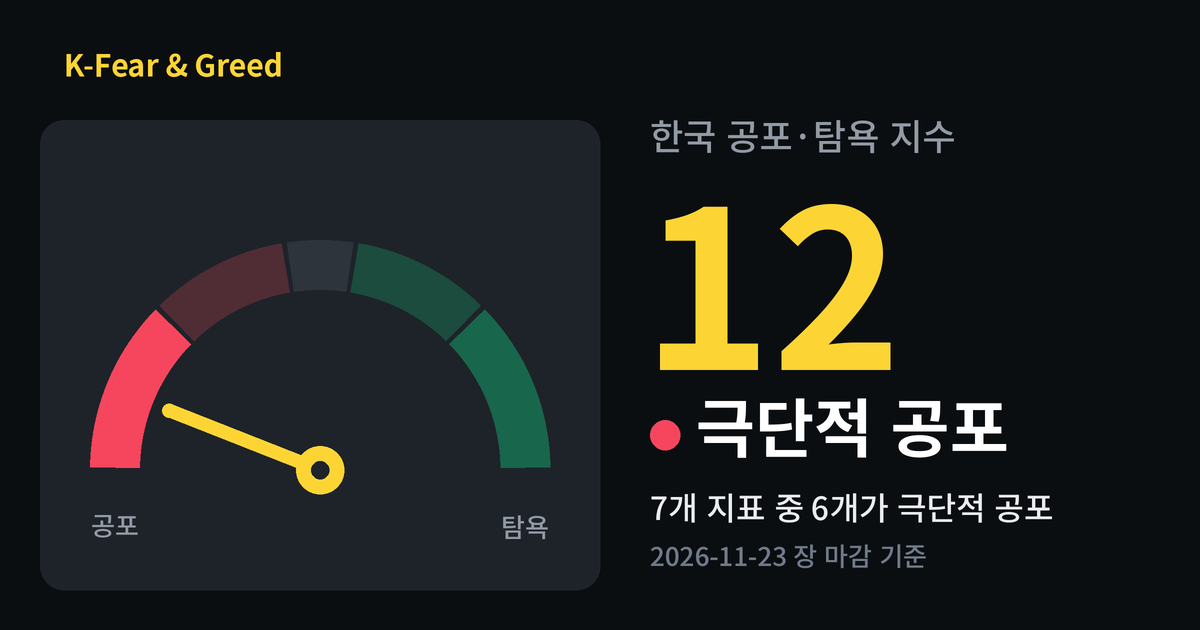
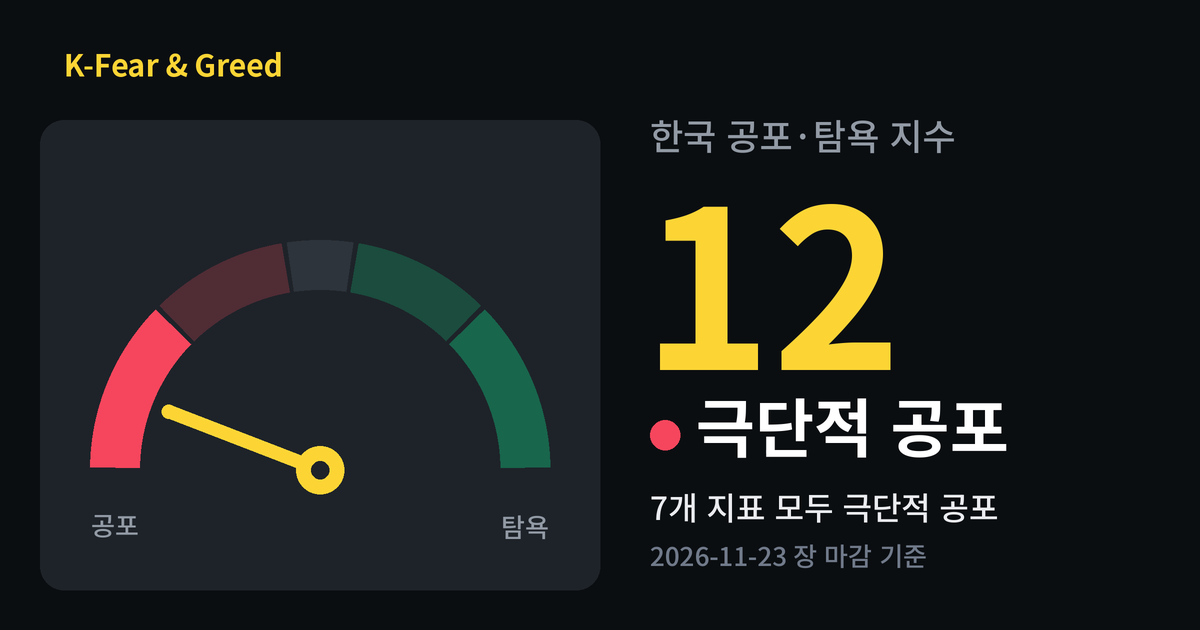
data: 2026-11-23T23:33Z

Changed region(s): [[0.6475, 0.7841, 0.8942, 0.8444], [0.1542, 0.6635, 0.185, 0.6937]]

diff --git a/docs/index.html b/docs/index.html
@@ -4,20 +4,20 @@
 <meta charset="utf-8">
 <meta name="viewport" content="width=device-width, initial-scale=1">
 <title>한국 공포·탐욕 지수</title>
-<meta name="description" content="2026-11-23 장 마감 기준 · 7개 지표 중 6개가 극단적 공포. 시장 전반에 두려움이 크게 퍼져 있어요.">
+<meta name="description" content="2026-11-23 장 마감 기준 · 7개 지표 모두 극단적 공포. 시장 전반에 두려움이 크게 퍼져 있어요.">
 <!-- 링크 미리보기: 아래 content 값은 build.py 가 매일 오늘 점수로 바꿔 쓴다 -->
 <meta property="og:type" content="website">
 <meta property="og:site_name" content="K-Fear &amp; Greed">
 <meta property="og:locale" content="ko_KR">
 <meta property="og:title" content="한국 공포·탐욕 지수 12점 · 극단적 공포">
-<meta property="og:description" content="2026-11-23 장 마감 기준 · 7개 지표 중 6개가 극단적 공포. 시장 전반에 두려움이 크게 퍼져 있어요.">
+<meta property="og:description" content="2026-11-23 장 마감 기준 · 7개 지표 모두 극단적 공포. 시장 전반에 두려움이 크게 퍼져 있어요.">
 <meta property="og:url" content="https://korea-feargreed.vercel.app/">
 <meta property="og:image" content="https://korea-feargreed.vercel.app/og.png?v=20261123">
 <meta property="og:image:width" content="1200">
 <meta property="og:image:height" content="630">
 <meta name="twitter:card" content="summary_large_image">
 <meta name="twitter:title" content="한국 공포·탐욕 지수 12점 · 극단적 공포">
-<meta name="twitter:description" content="2026-11-23 장 마감 기준 · 7개 지표 중 6개가 극단적 공포. 시장 전반에 두려움이 크게 퍼져 있어요.">
+<meta name="twitter:description" content="2026-11-23 장 마감 기준 · 7개 지표 모두 극단적 공포. 시장 전반에 두려움이 크게 퍼져 있어요.">
 <meta name="twitter:image" content="https://korea-feargreed.vercel.app/og.png?v=20261123">
 <link rel="icon" href="favicon.svg" type="image/svg+xml">
 <link rel="icon" href="favicon-32.png" type="image/png" sizes="32x32">
